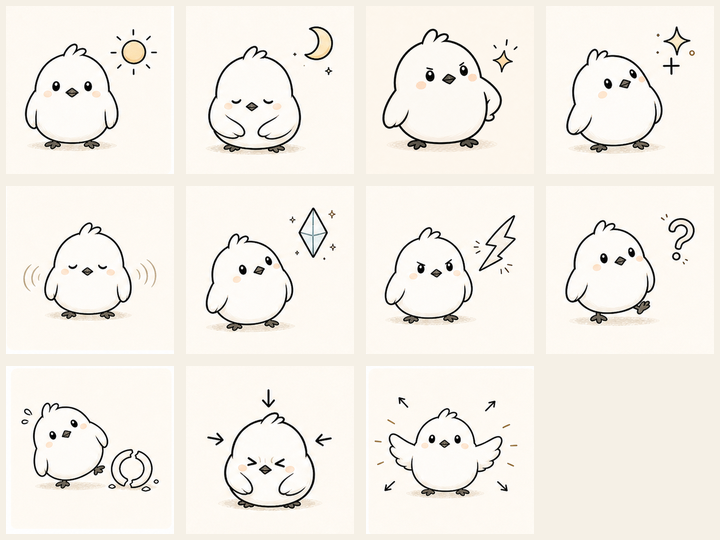
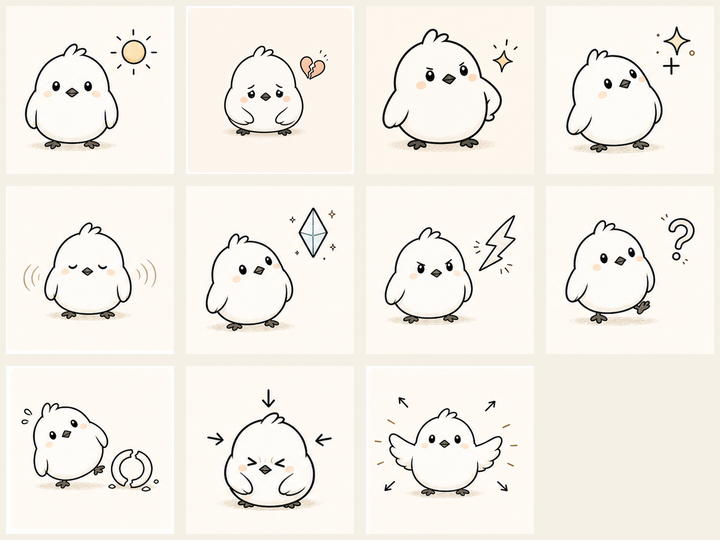
Make minor action sad with broken heart

Changed region(s): [[0.275, 0.0296, 0.4889, 0.2963]]

diff --git a/app/main.js b/app/main.js
@@ -17,8 +17,8 @@ let chordData = [
     ukulele_fingering: "0333",
     fingering_asset: "assets/app/fingering/initial-four/ukulele_Cm_vertical_strings.svg",
     character_asset: "assets/approved/characters/major.png",
-    learning_note: "今日は少し静か",
-    memory_hint: "Cmは、Cより少し静かな音。minorアクションの内向きな姿と、しっとりした気分をそっと結びつけよう。",
+    learning_note: "少し悲しい",
+    memory_hint: "Cmは、Cより少し悲しい音。minorアクションの悲しい顔と、割れたハートの気分を一緒に覚えよう。",
     temp_audio_notes: [261.63, 311.13, 392.0, 523.25]
   },
   {
@@ -81,7 +81,7 @@ const ONE_POINT_ACCENTS = {
   },
   minor: {
     slug: "minor",
-    title: "内向きの三日月",
+    title: "悲しい割れたハート",
     asset: "assets/app/accents/imagegen-v1/minor.png"
   },
   "7": {
@@ -177,7 +177,7 @@ const modeGuide = {
   },
   compare: {
     title: "ききくらべ",
-    description: "近いコードを並べて、明るい、静か、そわっと、ふわっとの違いを聞く。"
+    description: "近いコードを並べて、明るい、悲しい、ドヤっと、ふわっとの違いを聞く。"
   },
   quiz: {
     title: "音あて",
@@ -236,7 +236,7 @@ const chordSets = {
   "initial-four": {
     id: "initial-four",
     label: "はじめの4羽",
-    description: "同じCを基準に、明るい・静か・ドヤっと・広がるを聞き分ける。",
+    description: "同じCを基準に、明るい・悲しい・ドヤっと・広がるを聞き分ける。",
     progressions: [],
     dataPath: useFormalCandidate
       ? "../assets/app/data/initial-four-chords.formal-candidate-001.json"
@@ -849,7 +849,7 @@ function modeDescriptionForCurrentStep(guide) {
       return "Cのまわりにいる仲間を1羽ずつ見る。Cへ帰れる感じを耳に残す。";
     }
     if (activeView === "compare") {
-      return "明るい羽と静かな羽を並べて、曲でよく会う空気を聞く。";
+      return "明るい羽と悲しい羽を並べて、曲でよく会う空気を聞く。";
     }
     if (activeView === "quiz") {
       return "Cのまわりの仲間を、音から思い出す。正解より、帰り道の感覚を育てる。";

diff --git a/app/index.html b/app/index.html
@@ -221,6 +221,6 @@
       </section>
     </main>
 
-    <script src="./main.js?v=20260529-c7-doya"></script>
+    <script src="./main.js?v=20260529-minor-broken-heart"></script>
   </body>
 </html>

diff --git a/docs/ja/characters/white-bird-one-point-accent-system.md b/docs/ja/characters/white-bird-one-point-accent-system.md
@@ -38,7 +38,7 @@
 | コード種類 | ポーズ | ワンポイント | 意味 | 位置 |
 |---|---|---|---|---|
 | Major | 安定して立つ | 小さな丸いホームドット | 安心、帰る場所 | 足元中央 |
-| minor | 羽を内側へ寄せる | 内向きの小さな三日月 | 静けさ、内側へ向く | 左下 |
+| minor | 悲しい顔で羽を寄せる | 割れたハート | 悲しさ、少し胸が痛む感じ | 顔の横 |
 | 7 | 胸を張る | 小さなキラッ | ドヤっと決まる、少しにやっとする | 顔の横 |
 | add9 | 上を見る | 小さな一粒のきらめき | 空気が広がる、軽さ | 目線の先 |
 | m7 | 力を抜く | やわらかい小さな輪 | 余韻、ほどける | 足元横 |
@@ -56,7 +56,7 @@
 採用候補：
 
 - Major: ホームドット
-- minor: 小さな三日月
+- minor: 割れたハート
 - 7: ドヤっとしたキラッ
 - add9: 一粒のきらめき
 - mM7: 細い斜めの小片
